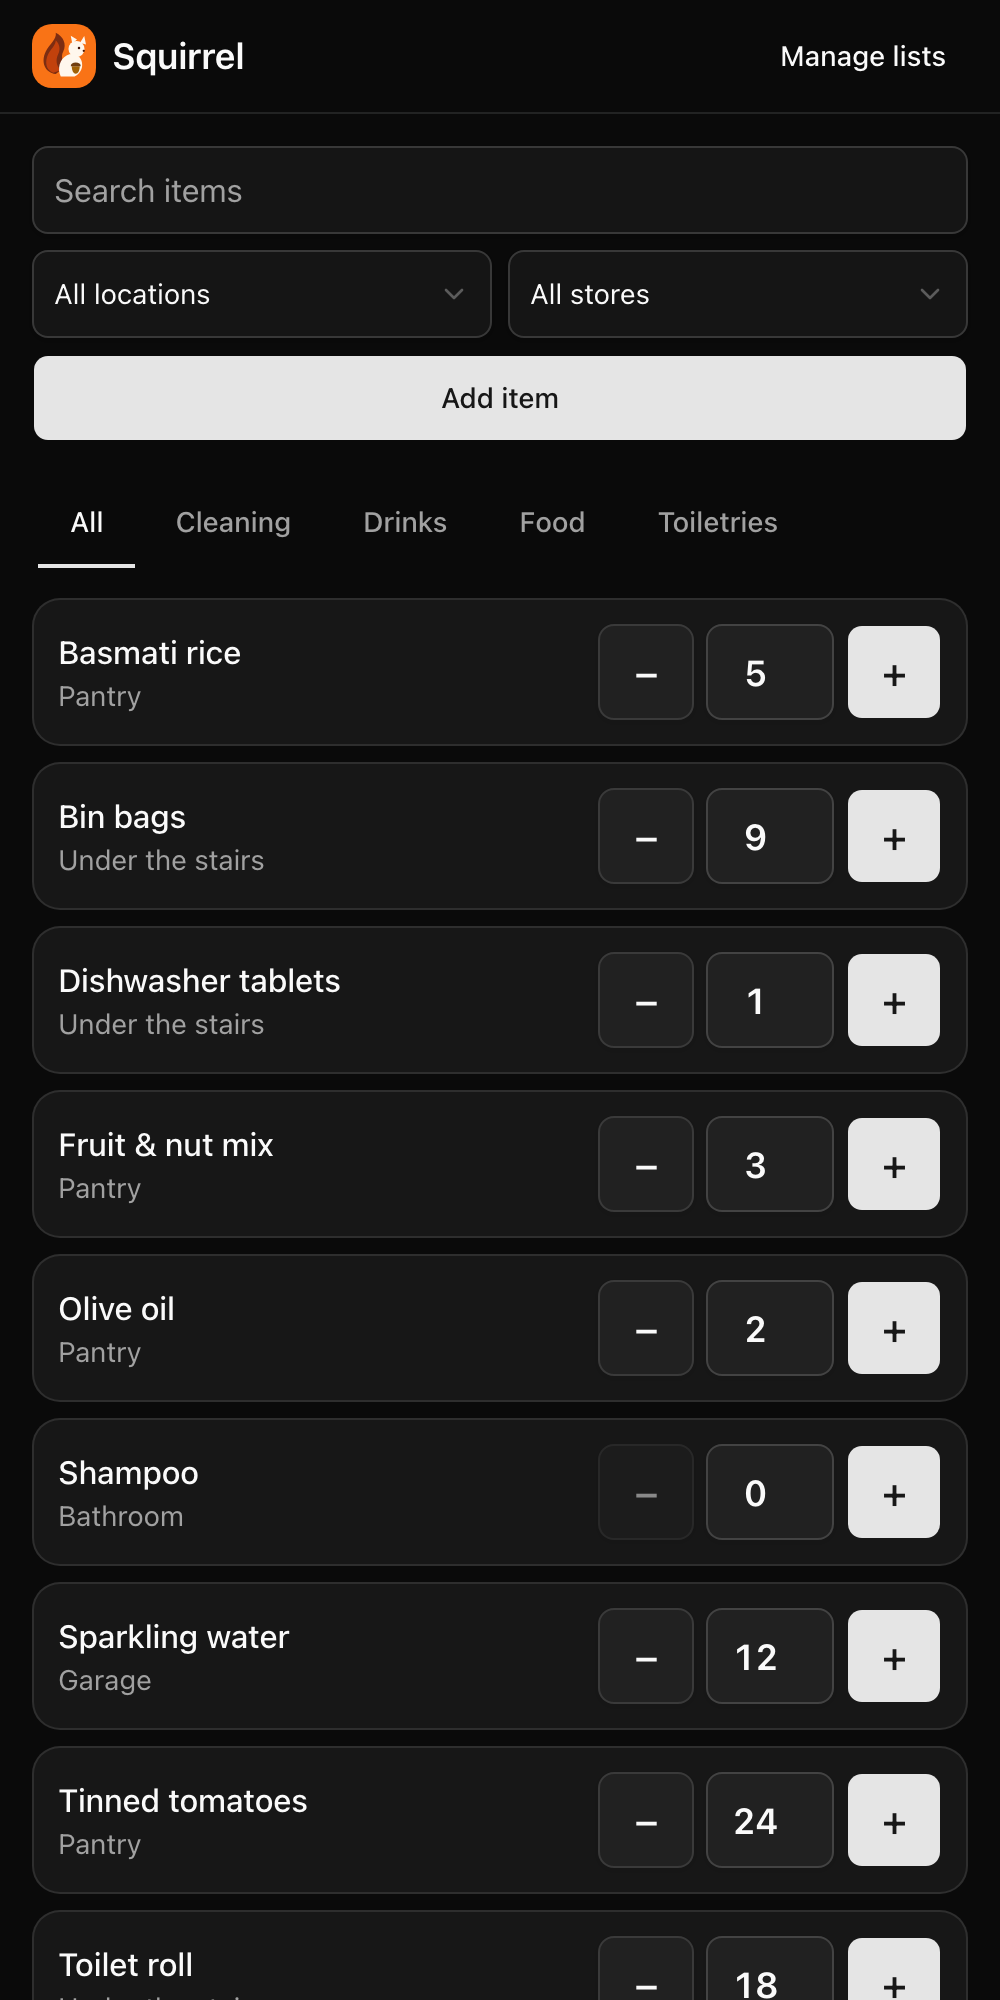
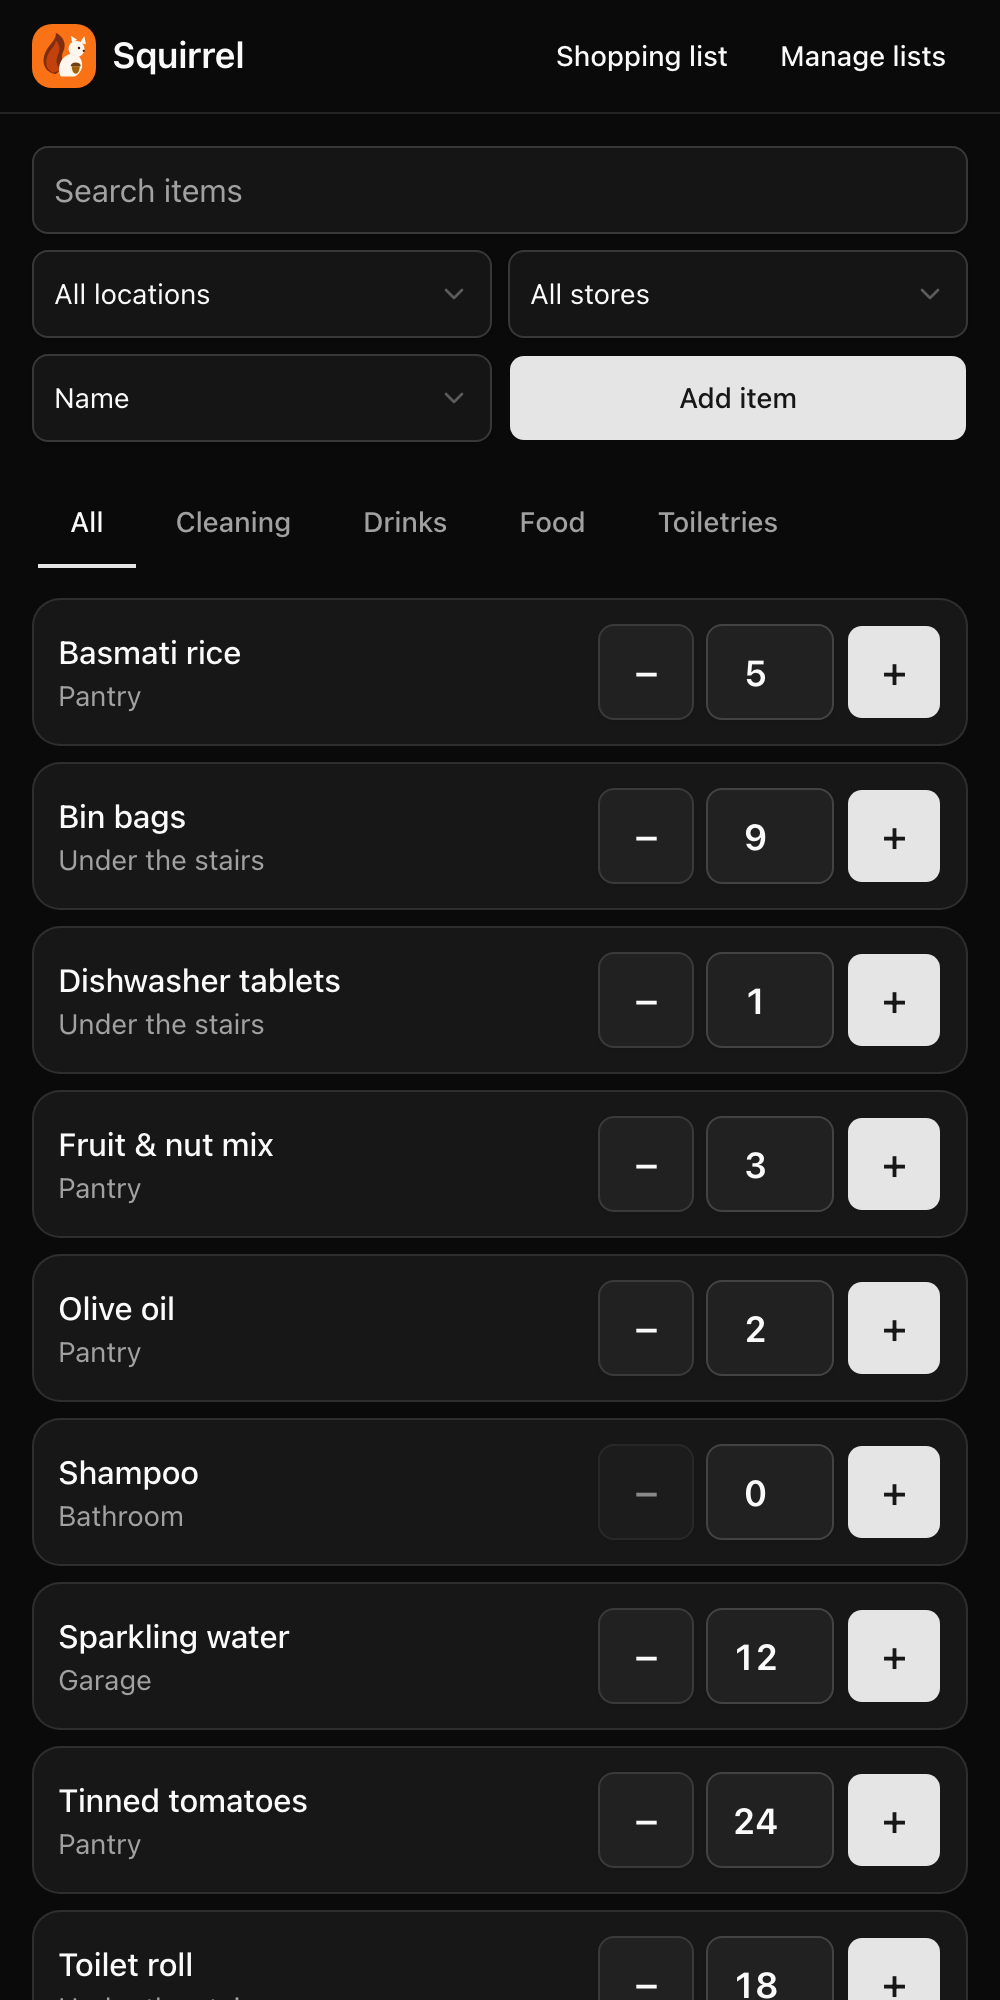
docs: update README and screenshot for 1.1.0
Add sort, the shopping list and an Import and export section with the CSV
format. Explain how to find ids for the JSON API. Add make build. Replace
the screenshot with one that shows the shopping list link, the sort menu
and the new filter layout. Note in AGENTS.md that the JSON API and the
CSV import answer one way only.

diff --git a/README.md b/README.md
@@ -7,7 +7,7 @@ You buy toothpaste, tinned tomatoes and fruit & nut mix in bulk, and you put it 
 Squirrel does not decide when to buy more. You look at the counts and decide.
 
 <p align="center">
-  <img src="docs/screenshot.png" alt="Squirrel on a phone. A list of household items such as basmati rice, bin bags and olive oil, each with a −1 button, a count and a +1 button." width="320">
+  <img src="docs/screenshot.png" alt="Squirrel on a phone. Links to the shopping list and Manage lists at the top, then search, filters and a sort menu. Below is a list of household items such as basmati rice, bin bags and olive oil, each with a −1 button, a count and a +1 button." width="320">
 </p>
 
 ## Features
@@ -15,11 +15,12 @@ Squirrel does not decide when to buy more. You look at the counts and decide.
 - A list of items with large **−1** and **+1** buttons, made for one hand on a phone.
 - Tap a count to type an exact number.
 - Tabs for **All** and for each category, plus search and filters for location and store.
+- Sort by name, by lowest count first, or by the most recent change.
+- A **Shopping list** page shows the items with a count of 0, grouped by store.
 - Every change is recorded. See the last 10 changes of an item and **undo** the latest one.
 - Categories, locations and stores are lists that you manage in the app.
-- Works on a phone and on a desktop. Add it to your home screen for a full-screen app.
-- A shopping list: the items with a count of 0, grouped by store.
 - Export your items to a CSV file, and import items from one.
+- Works on a phone and on a desktop. Add it to your home screen for a full-screen app.
 - A read-only JSON API for dashboards and home automation, for example Home Assistant.
 - One small container. One SQLite file. No internet needed at runtime.
 
@@ -69,6 +70,28 @@ Open <http://localhost:8080>.
 
 Squirrel starts empty. Before you add an item, open **Manage lists** and create at least one category, one location and one store. Then add your first item.
 
+If your items are in a spreadsheet, import them instead. Read [Import and export](#import-and-export).
+
+## Import and export
+
+Open **Manage lists**, then **Import and export**.
+
+**Export CSV** downloads every item. Use it to move your items to a new install or to edit them in a spreadsheet.
+
+To import, choose a CSV file of 1 MB or less. The first row names the columns:
+
+```csv
+name,count,category,location,store,notes
+Tinned tomatoes,24,Food,Pantry,Costco,
+Bin bags,9,Cleaning,Under the stairs,Costco,Black ones
+```
+
+- `name`, `category`, `location` and `store` are required. `count` and `notes` are optional. A blank count is 0.
+- The columns can be in any order. Squirrel ignores other columns.
+- Squirrel creates a category, location or store that does not exist yet.
+- An import only adds items. If an item with the same name exists, Squirrel skips the row and does not change the item.
+- Squirrel also skips a row with a problem, for example a missing category. The result page lists each skipped row with its line number and the reason.
+
 ## Configuration
 
 Set these environment variables on the container. All of them are optional.
@@ -115,7 +138,7 @@ docker compose start squirrel
 
 To restore, stop the container and unpack the archive into the volume.
 
-A CSV export is handy to move items or to edit them in a spreadsheet. It is not a full backup, because it has no history. Back up the `/data` volume for that.
+A [CSV export](#import-and-export) is not a full backup, because it has no history. Back up the `/data` volume for that.
 
 ## Health check
 
@@ -142,6 +165,8 @@ Squirrel has a read-only JSON API. Use it for dashboards and home automation. It
 | `location` | A location id                                                        |
 | `store`    | A store id                                                           |
 | `sort`     | `count` (lowest first) or `updated` (newest first). Default: name    |
+
+To find an id, use the main page. Click a category tab, or choose a location or store filter. The address bar then shows the id, for example `?tab=3`, `?loc=2` or `?store=1`. The id of an item is in the address of its page, for example `/items/7`.
 
 ```sh
 curl 'http://localhost:8080/api/items?sort=count'
@@ -178,6 +203,7 @@ make test       # run all tests
 make lint       # run golangci-lint
 make generate   # run templ generate (commit the result)
 make css        # rebuild the stylesheet
+make build      # build ./bin/squirrel, with the version from git describe
 ```
 
 The stack is Go (`net/http`), [templ](https://templ.guide), [HTMX](https://htmx.org), [Tailwind CSS](https://tailwindcss.com) with [Basecoat](https://basecoatui.com), and SQLite through [`modernc.org/sqlite`](https://pkg.go.dev/modernc.org/sqlite). All assets are embedded in the binary.

diff --git a/AGENTS.md b/AGENTS.md
@@ -24,7 +24,7 @@ The app vendors **HTMX 4**, not HTMX 2. Event names and some attributes differ, 
 ## Code layout
 
 - `internal/store` is the only package that talks to SQLite. Every data rule lives here: atomic adjust, the count floor of zero, undo, list deletes. It returns typed errors (`ErrNotFound`, `ErrDuplicate`, `ErrBelowZero`, `*ValidationError`).
-- `internal/web` handlers are thin: parse the request, call the store, render. Each action answers two ways: an HTMX request gets a fragment, a plain form post gets a redirect or a full page. Keep both paths working.
+- `internal/web` handlers are thin: parse the request, call the store, render. Each action answers two ways: an HTMX request gets a fragment, a plain form post gets a redirect or a full page. Keep both paths working. Two exceptions answer one way only: the read-only JSON API under `/api/` always answers JSON, and `POST /import` (a file upload) always answers a full page.
 - Schema changes go in a new file `internal/store/migrations/NNNN_name.sql`. Applied migrations are frozen; the version is tracked in `PRAGMA user_version`.
 
 ## Tests
